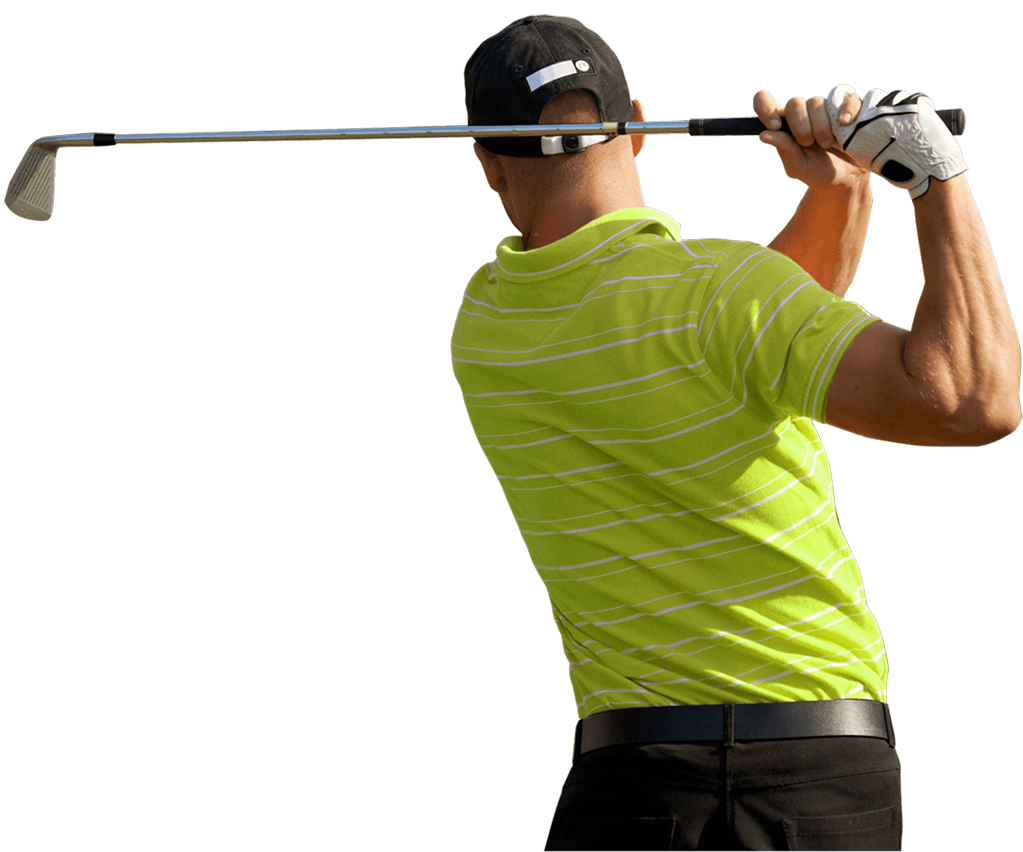
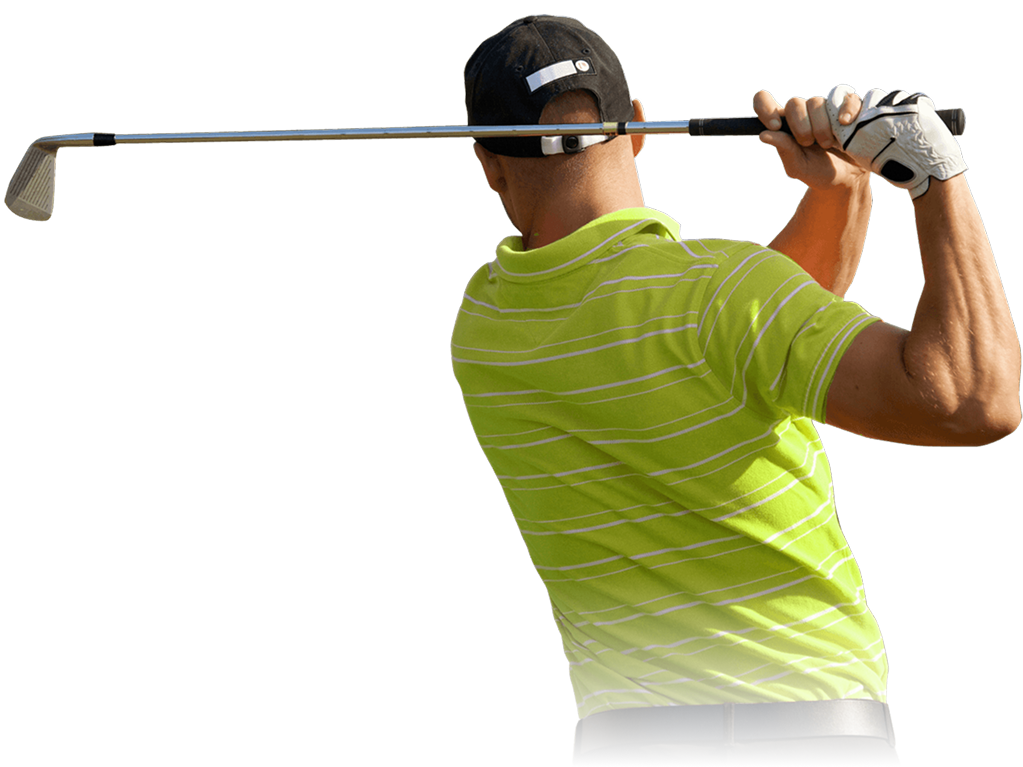
updates

Changed region(s): [[0.0, 0.0, 1.0, 1.0]]

diff --git a/index.html b/index.html
@@ -371,8 +371,8 @@
         <section class="experience-sec-holder " id="why">
             <div class="container">
                 <div class="exp-box-holder">
-                    <img src="https://cdn.shopify.com/s/files/1/0811/0142/2911/files/player.png?v=1744115595"
-                        alt="Experience Image" class="exp-img">
+                    <img src="assets/images/player.png" alt="Experience Image" class="exp-img" alt="Experience Image"
+                        class="exp-img">
                     <div class="exp-left">
                         <h3>No
                             <span>compromises.</span> It's all the best parts of golf, 24/7.
@@ -1114,7 +1114,7 @@
     <script src="https://cdn.jsdelivr.net/npm/swiper@11/swiper-bundle.min.js"></script>
     <script src="https://cdnjs.cloudflare.com/ajax/libs/gsap/3.12.4/gsap.min.js"></script>
     <script src="https://cdnjs.cloudflare.com/ajax/libs/gsap/3.12.4/ScrollTrigger.min.js"></script>
-
+    <script src="https://cdn.jsdelivr.net/npm/@studio-freight/lenis@1.0.34/dist/lenis.min.js"></script>
 
     <script>
         document.addEventListener('DOMContentLoaded', () => {
@@ -1129,20 +1129,21 @@
             });
 
             const sliderWrapper = document.querySelector('.slider-wrapper');
-
             const totalSlides = swiper.slides.length - 2; // Subtract visible slides - 1 for zero-based
+            const extraScrollSpace = 1; // Number of extra scrolls after last slide
 
             function updateSlider() {
                 const rect = sliderWrapper.getBoundingClientRect();
                 const scrollProgress = -rect.top / (rect.height - window.innerHeight);
                 const clampedProgress = Math.max(0, Math.min(1, scrollProgress));
+
+                // Calculate target slide with extra scroll space
                 const targetSlide = Math.min(
-                    Math.floor(clampedProgress * totalSlides),
+                    Math.floor(clampedProgress * (totalSlides + extraScrollSpace)),
                     totalSlides
                 );
 
                 swiper.slideTo(targetSlide, 800);
-
             }
 
             // Update on scroll
@@ -1367,6 +1368,31 @@
                 }
             });
         });
+    </script>
+
+    <script>
+        // Initialize Lenis for smooth scrolling
+        const lenis = new Lenis({
+            duration: 2.5,
+            easing: (t) => Math.min(1, 1.001 - Math.pow(2, -5 * t)),
+            direction: 'vertical',
+            gestureDirection: 'vertical',
+            smooth: true,
+            smoothTouch: false,
+            touchMultiplier: 2,
+            wheelMultiplier: 0.8,
+            infinite: false,
+        });
+
+        // Integrate Lenis with GSAP ScrollTrigger
+        function raf(time) {
+            lenis.raf(time);
+            requestAnimationFrame(raf);
+        }
+        requestAnimationFrame(raf);
+
+        // Update ScrollTrigger on Lenis scroll
+        lenis.on('scroll', ScrollTrigger.update);
     </script>
 </body>
 

diff --git a/stack-animation.html b/stack-animation.html
@@ -266,6 +266,14 @@
                 min-width: 60px;
             }
         }
+
+        .section {
+            background-color: #555770;
+            height: 100vh;
+            display: flex;
+            align-items: center;
+            justify-content: center;
+        }
     </style>
 </head>
 
@@ -333,6 +341,7 @@
                             </div>
                             <div class="swiper-slide" style="background-color: transparent; box-shadow: none;">
                             </div>
+
                         </div>
                     </div>
                 </div>
@@ -358,20 +367,21 @@
             });
 
             const sliderWrapper = document.querySelector('.slider-wrapper');
-
             const totalSlides = swiper.slides.length - 2; // Subtract visible slides - 1 for zero-based
+            const extraScrollSpace = 2; // Number of extra scrolls after last slide
 
             function updateSlider() {
                 const rect = sliderWrapper.getBoundingClientRect();
                 const scrollProgress = -rect.top / (rect.height - window.innerHeight);
                 const clampedProgress = Math.max(0, Math.min(1, scrollProgress));
+
+                // Calculate target slide with extra scroll space
                 const targetSlide = Math.min(
-                    Math.floor(clampedProgress * totalSlides),
+                    Math.floor(clampedProgress * (totalSlides + extraScrollSpace)),
                     totalSlides
                 );
 
                 swiper.slideTo(targetSlide, 800);
-
             }
 
             // Update on scroll

diff --git a/assets/style.css b/assets/style.css
@@ -1849,7 +1849,7 @@ div:empty {
     position: absolute;
     pointer-events: none;
     left: 0;
-    bottom: -23%;
+    bottom: -40%;
     right: -7px;
     margin: 0 auto;
     width: 100%;
